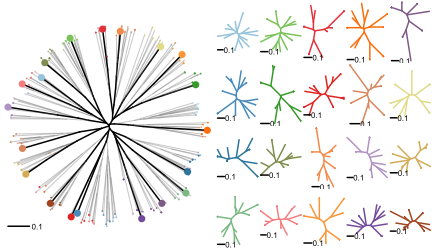
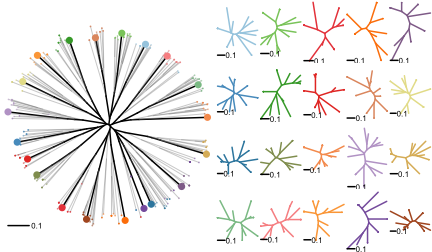
update

diff --git a/results/kamvar2017population.md b/results/kamvar2017population.md
@@ -836,7 +836,7 @@ trees created from within-population subsample.
 
 
 ```r
-s1 <- subsamples[[2]]
+s1 <- subsamples[[1]]
 set.seed(2017-11-21)
 samps <- data_frame(pop = pop(test), ind = indNames(test)) %>% 
   filter(!ind %in% indNames(s1)) %>%
